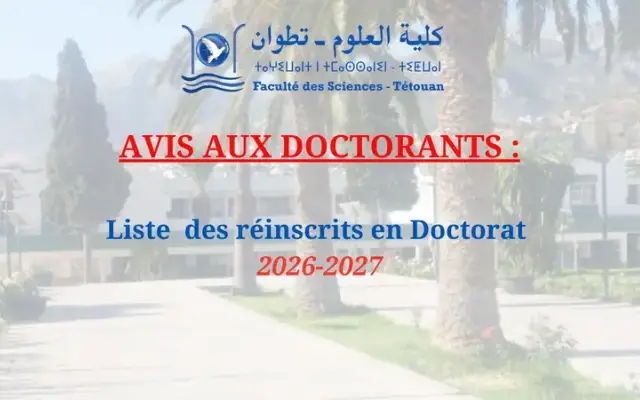
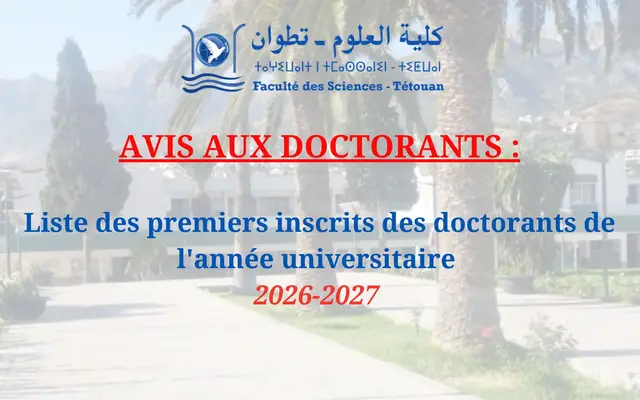
data: scrape 2026-11-11 12:57 UTC

diff --git a/data/posts/79.html b/data/posts/79.html
@@ -1,1 +1,1 @@
-<h3><a href="https://fs.uae.ac.ma/panel/admin/uploads/1791981425_Liste%20provisoire%20des%20r%C3%A9inscrits-2026-2027-Act%20(1).pdf" class="file"> <em>Liste des réinscrits en Doctorat 2026-2027</em></a></h3>
+<h3><a href="https://fs.uae.ac.ma/panel/admin/uploads/1794390120_Inscrits-PAI-26-27.pdf" class="file"><em>Liste des premiers inscrits des doctorants de l'année universitaire 2026-2027</em></a></h3>
